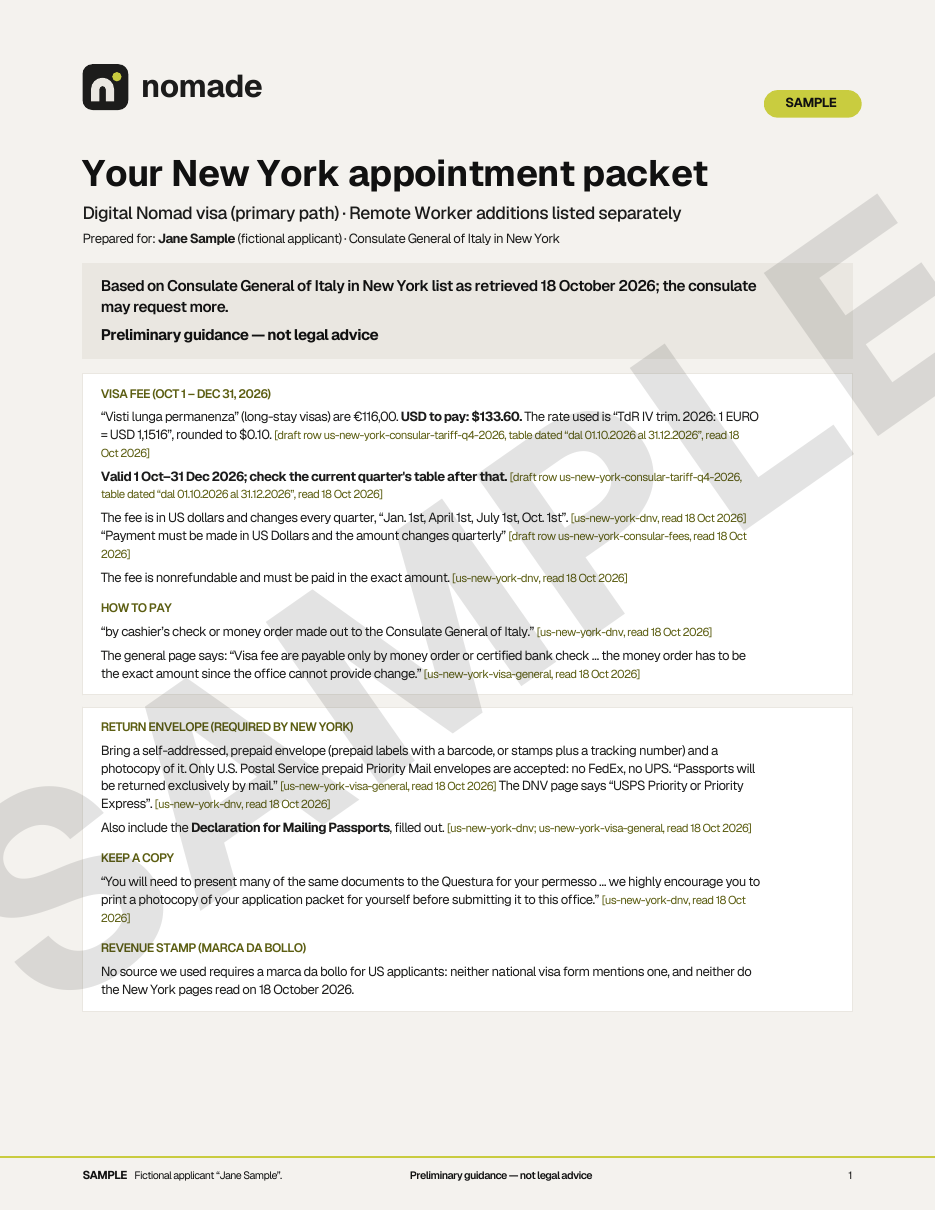
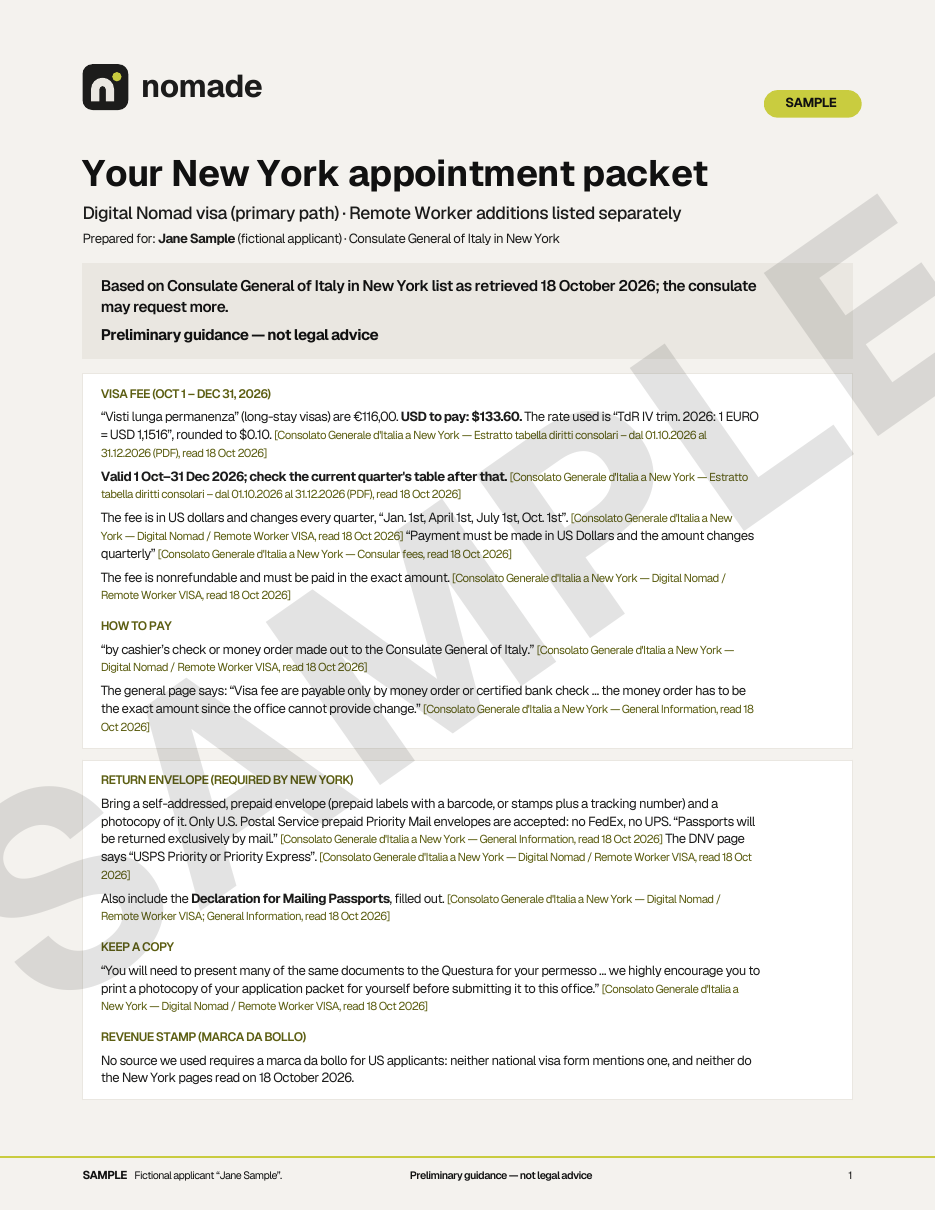
Replace NY packet sample with Studio's cleaned build; add PDF leak guard test
Studio rebuilt 0.4-ny-appointment-packet-SAMPLE.pdf (10:40 CEST) citing
sources by official name instead of internal ledger rows. 0.3 is
byte-identical, so only the packet and its preview are regenerated.

The guard test (unpdf 1.8.1, dev-only, exact pin) extracts every PDF in
private/waitlist-samples/ and fails on 'draft row', 'active row', or
us-<seg>-<seg> row ids, after stripping URL-like tokens.

diff --git a/src/lib/__tests__/waitlist-samples-guard.test.ts b/src/lib/__tests__/waitlist-samples-guard.test.ts
@@ -1,0 +1,77 @@
+// Guard: the private waitlist sample PDFs must never leak internal
+// source-ledger wording ("draft row", "active row") or internal row ids
+// such as `us-new-york-dnv`. Text is extracted with unpdf (pure JS, no
+// native deps), so this runs in CI without poppler.
+import { readdirSync, readFileSync } from "node:fs";
+import path from "node:path";
+import { describe, it, expect } from "vitest";
+import { extractText, getDocumentProxy } from "unpdf";
+import { CTA_SAMPLES } from "@/lib/waitlist/cta";
+
+const SAMPLES_DIR = path.join(process.cwd(), "private", "waitlist-samples");
+
+const LEDGER_LABELS = [/draft row/i, /active row/i];
+
+// URL-ish tokens (with or without scheme): host.tld[/path...]. These are
+// removed before the id check so legitimate links such as
+// `consnewyork.esteri.it/.../us-new-york-visa` cannot trip the guard.
+const URL_LIKE = /\b(?:https?:\/\/)?[a-z0-9-]+(?:\.[a-z0-9-]+)+(?:\/\S*)?/gi;
+
+// Internal row ids: lowercase `us-` followed by at least two more
+// hyphenated segments (e.g. `us-new-york-dnv`). Case-sensitive, so prose
+// like "US-based" never matches; the lookbehind rejects ids glued to a
+// path, word, or domain fragment.
+const ROW_ID = /(?<![\w./-])us-[a-z0-9]+(?:-[a-z0-9]+)+/g;
+
+function findLeaks(rawText: string): string[] {
+  const text = rawText.replace(/\s+/g, " ");
+  const hits: string[] = [];
+  for (const re of LEDGER_LABELS) {
+    const m = text.match(re);
+    if (m) hits.push(m[0]);
+  }
+  const withoutUrls = text.replace(URL_LIKE, " ");
+  for (const m of withoutUrls.matchAll(ROW_ID)) hits.push(m[0]);
+  return hits;
+}
+
+async function pdfText(file: string): Promise<string> {
+  const data = new Uint8Array(readFileSync(path.join(SAMPLES_DIR, file)));
+  const pdf = await getDocumentProxy(data);
+  const { text } = await extractText(pdf, { mergePages: true });
+  return text;
+}
+
+describe("findLeaks (pattern self-test)", () => {
+  it.each([
+    "[us-new-york-dnv, read 18 Oct 2026]",
+    "[draft row us-new-york-consular-tariff-q4-2026, table dated",
+    "see the Active Row for details",
+  ])("flags %s", (s) => {
+    expect(findLeaks(s).length).toBeGreaterThan(0);
+  });
+
+  it.each([
+    "consnewyork.esteri.it/wp-content/uploads/2026/09/TAB-us-new-york-q4.pdf",
+    "https://example.gov/us-new-york-visa",
+    "US-based remote workers",
+    "Prepared for: Jane Sample (fictional applicant)",
+    "Consolato Generale d'Italia a New York — Consular fees, read 18 Oct 2026",
+  ])("does not flag %s", (s) => {
+    expect(findLeaks(s)).toEqual([]);
+  });
+});
+
+describe("private waitlist sample PDFs", () => {
+  const pdfs = readdirSync(SAMPLES_DIR).filter((f) => f.toLowerCase().endsWith(".pdf"));
+
+  it("includes every PDF the CTA cards link to", () => {
+    for (const s of Object.values(CTA_SAMPLES)) expect(pdfs).toContain(s.pdf);
+  });
+
+  it.each(pdfs)("%s has no ledger labels or internal row ids", async (file) => {
+    const text = await pdfText(file);
+    expect(text.length).toBeGreaterThan(200);
+    expect(findLeaks(text)).toEqual([]);
+  });
+});

diff --git a/private/waitlist-samples/README.md b/private/waitlist-samples/README.md
@@ -24,3 +24,5 @@ Public landing-card previews live in `public/waitlist/preview/`:
 | appointment_packet | `appointment_packet-preview.png` | `out/png/0.4-ny-packet-p-1.png` (resized to 720 px wide) |
 
 A missing file is skipped (no image / no link), never an error.
+
+Guard: `src/lib/__tests__/waitlist-samples-guard.test.ts` extracts the text of every PDF here and fails on "draft row", "active row", or internal row ids (`us-…`). Re-run `npm test` after replacing a sample.
